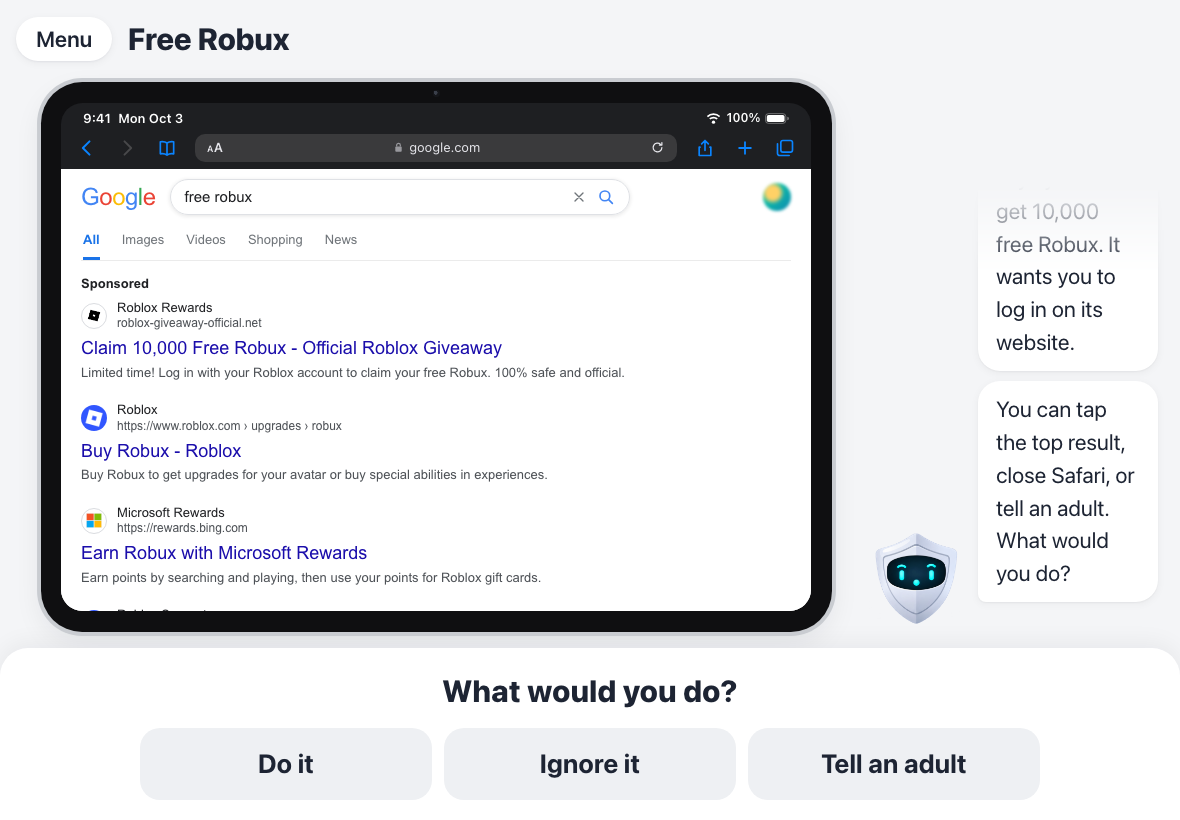
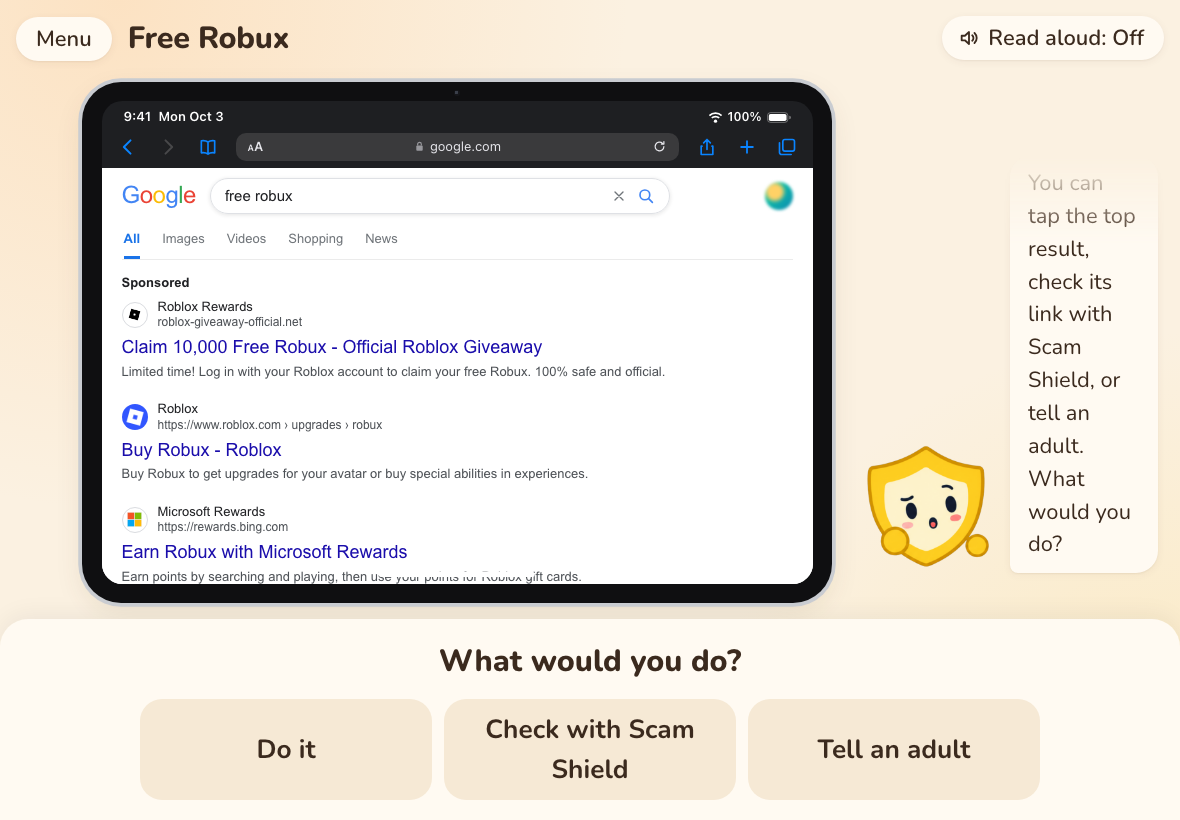
Docs: up-to-date screenshots in the README, and new ones for checking and grown-ups

diff --git a/README.md b/README.md
@@ -59,8 +59,6 @@ Every scam follows the same steps, so kids always know what's coming.
 
 <img src="docs/screenshots/scam-shorts.png" alt="A fake giveaway on YouTube Shorts" width="50%">
 
-*The screenshots show an earlier look (grey colours and the old robot Buddy); the game now uses the cream look below.*
-
 ## Shield Buddy
 
 A friendly yellow shield with a face and little hands, who guides each scam in short speech bubbles. It has six moods (`happy`, `curious`, `thinking`, `worried`, `cheering`, `neutral`) and a little move for each.
@@ -70,6 +68,23 @@ A friendly yellow shield with a face and little hands, who guides each scam in s
 - **Every line is scripted** in the scenario files. Nothing is generated.
 - **Read aloud:** a "Read aloud" switch in the top corner (off by default) has the device's own voice read Buddy's lines; each bubble waits until the voice has finished.
 - **A conversation that carries on:** in Ask Shield Buddy, leaving to check something and coming back continues the same chat. Buddy greets once, then reacts to what the check found, in a different way each time.
+
+## Check something
+
+The home screen has two parts: **Check something**, for anything that feels weird right now, and **Learn about scams**, the game.
+
+![The home screen: Check something and Learn about scams](docs/screenshots/home.png)
+
+<table>
+  <tr>
+    <td width="50%"><img src="docs/screenshots/ask-buddy.png" alt="Ask Shield Buddy: Buddy asks what to check, with A picture, A link, A message and I'm not sure"></td>
+    <td width="50%"><img src="docs/screenshots/check-link.png" alt="A link result: This looks like a scam, with the clues Pretending to be Roblox and Words that tempt you"></td>
+  </tr>
+  <tr>
+    <td><b>Ask Shield Buddy.</b> Buddy asks what it is and opens the right checker. Kids can also type or say a question.</td>
+    <td><b>The result.</b> What was checked, with each clue marked and numbered, what to do, and the clues in a short list. Tap one to see why.</td>
+  </tr>
+</table>
 
 ## Check a link
 
@@ -89,11 +104,17 @@ Kids take a screenshot or photo of anything that worries them (a text, a game ch
 
 The result shows the picture with numbered boxes around each warning sign, a short list of clue names (tap one for a one-line reason, then "Why? Ask Shield Buddy" for Buddy's scripted explanation), a magnifier to see it big, and "Ask Buddy about this", which opens the chat with help for kids who already tapped, replied or sent something. A threat, a request for photos, or a picture Claude won't look at gets a calm "Show a grown-up right now / It's not your fault" (the picture is blurred if it may not be OK to see). The AI only answers fixed questions: the app writes everything kids read, and it never says "safe".
 
+<img src="docs/screenshots/check-picture.png" alt="A picture result: the YouTube Short with its clues highlighted, and the clues Someone rushing you, A fake channel name and A free prize" width="50%">
+
+*The practice check in the game, where the clues are the scam's own. A real picture check draws numbered boxes around each warning sign.*
+
 Tested on 17 made-up screenshots and 48 made-up photos of screens (angled, glare, dim): every scam caught, no false alarms, and look-alike links (dlscord, rnicrosoft, paypa1) copied exactly.
 
 ## Check a message
 
 Kids paste a text, chat, email or post. Phone numbers, emails, codes and addresses are blanked out on the device before anything is sent. Claude names the same warning signs and quotes the words that show them, which are highlighted and numbered in the message. The result screen is the same as for pictures. Tested on 12 made-up messages: every scam caught, no false alarms.
+
+<img src="docs/screenshots/check-message.png" alt="A message result: the Mom text with three highlighted, numbered clues" width="50%">
 
 ## For grown-ups
 
@@ -105,6 +126,8 @@ Behind the gear on the home screen, past a parent gate (a grown-up PIN, or a sum
 - **History:** the child's recent checks: when, which checker, the result and the clues found (and a link's website). It's kept only on the device and never includes the pictures or messages.
 - **Grown-up PIN:** set, change or remove it. A wrong PIN shakes, like a phone's lock screen.
 - **Family code word:** advice only. Nothing is saved.
+
+<img src="docs/screenshots/grown-ups.png" alt="The grown-ups settings: Checks, Shield Buddy, Results, History, Grown-up PIN and Family code word" width="50%">
 
 Each home can check 40 pictures and 100 messages a day. Kids are told the checks use AI: Buddy says it's "a computer helper, not a real person", and every AI result says so.
 
